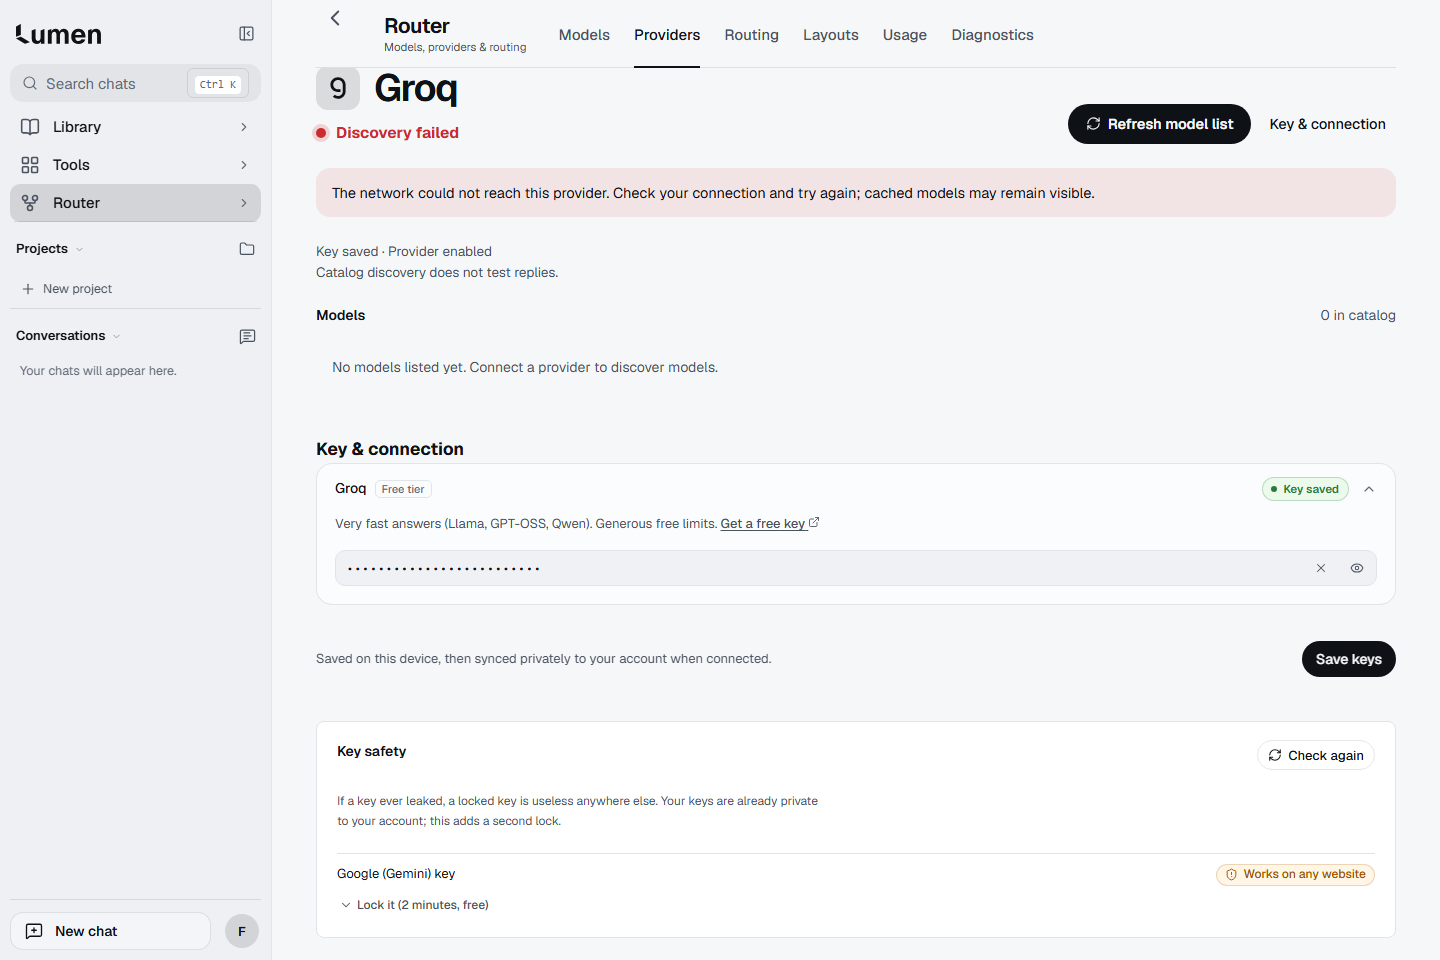
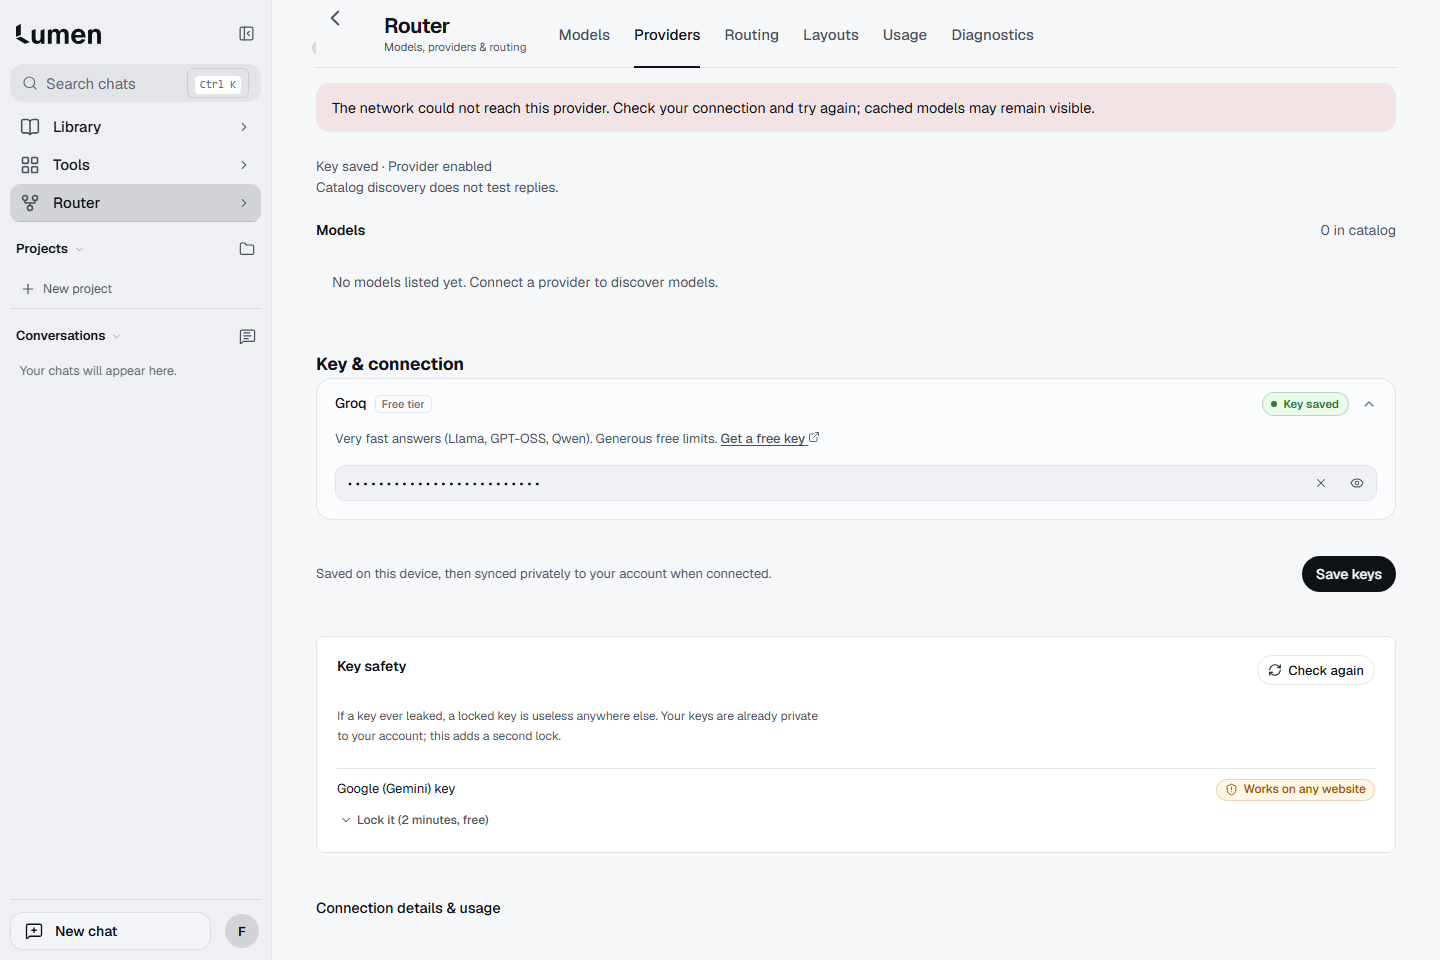
Router provider pages: Key safety only where it applies, in Lumen's words
Key safety checks Gemini and OpenRouter keys, so on Router's provider pages it
now appears only on those two, and shows Lumen's own copy instead of a
provider's raw error text (CI caught a 401 message rendering after the auth
failure). Settings keeps its existing Key safety. Also refreshes the review
captures (320/390/430/1440, Light and Dark) and the design note.

diff --git a/src/components/KeySafety.tsx b/src/components/KeySafety.tsx
@@ -28,8 +28,9 @@ function Steps({ title, children, open: startOpen }: { title: string; children: 
   );
 }
 
-/** Checks that the user's own AI keys can't be misused if they ever leak. */
-export default function KeySafety() {
+/** Checks that the user's own AI keys can't be misused if they ever leak. `safeCopy` (Router's provider pages) shows
+ * Lumen's own words instead of a provider's raw error text. */
+export default function KeySafety({ safeCopy = false }: { safeCopy?: boolean } = {}) {
   const keys = useStore((s) => s.keys);
   const [gemini, setGemini] = useState<Gemini>(null);
   const [openrouter, setOpenrouter] = useState<OpenRouter>(null);
@@ -102,8 +103,8 @@ export default function KeySafety() {
               <li>Save, wait about 5 minutes, then press <b>Check again</b>.</li>
             </Steps>
           )}
-          {gemini?.state === 'invalid' && <span className="setting-hint warn">Google says this key isn't valid: {gemini.message}</span>}
-          {gemini?.state === 'error' && gemini.message && <span className="setting-hint">{gemini.message}</span>}
+          {gemini?.state === 'invalid' && <span className="setting-hint warn">{safeCopy ? "Google says this key isn’t valid. Check it in Google AI Studio, then save it again." : <>Google says this key isn't valid: {gemini.message}</>}</span>}
+          {gemini?.state === 'error' && gemini.message && <span className="setting-hint">{safeCopy ? "Couldn’t check this key right now. Try Check again later." : gemini.message}</span>}
         </div>
       )}
 
@@ -139,7 +140,7 @@ export default function KeySafety() {
               <li>Come back and press <b>Check again</b>.</li>
             </Steps>
           )}
-          {openrouter?.state === 'error' && openrouter.message && <span className="setting-hint">{openrouter.message}</span>}
+          {openrouter?.state === 'error' && openrouter.message && <span className="setting-hint">{safeCopy ? "Couldn’t check this key right now. Try Check again later." : openrouter.message}</span>}
         </div>
       )}
     </div>

diff --git a/src/components/KeysPanel.tsx b/src/components/KeysPanel.tsx
@@ -84,7 +84,8 @@ export default function KeysPanel({ provider }: { provider?: string } = {}) {
         </button>
       </div>
 
-      <KeySafety />
+      {/* Key safety checks Gemini and OpenRouter keys; on a provider page it appears only for those two. */}
+      {(!provider || provider === 'gemini' || provider === 'openrouter') && <KeySafety safeCopy={Boolean(provider)} />}
     </div>
   );
 }

diff --git a/docs/reviews/switchboard-checkpoint/README.md b/docs/reviews/switchboard-checkpoint/README.md
@@ -1,30 +1,48 @@
-# Router (formerly Prism): first visual checkpoint
+# Router (formerly Prism) and the slimmer Settings
 
-**Checkpoint only; not a PR, merge or deployment.** Running Canvas app, synthetic profile (Gemini key listing one model, Groq key saved with discovery blocked, nothing else), all non-local traffic blocked, no inference, $0.
+**Draft for owner review ([PR #63](https://github.com/Seifonyx/Lumen/pull/63)). Not merged or deployed.** Captures come from the running Canvas app with a synthetic profile (Gemini key listing one model, a Groq key whose catalog request is blocked, nothing else), with every non-local request blocked: no inference, $0.
 
 ## Name
 
-**Router** (owner's choice, 2026-10-29, from a shortlist after Switchboard was declined), with the descriptor "Models, providers & routing" and the existing routing icon. It says exactly what the area does: send each request to the right model and provider, fall back when one is busy, and show what happened. "Prism" described light rather than the work, and a marketed AI gateway already uses that name. "Router" is a generic word, so this is an in-app area name, not a cleared brand. Internal ids (`routing-center`, `prism` context values, `rc-` classes) are unchanged.
+**Router** is the owner's choice (2026-10-29), picked from a shortlist after Switchboard was declined. It keeps the descriptor "Models, providers & routing" and the existing routing icon. "Router" is a generic word, so it is an in-app area name, not a cleared brand. Internal ids (`routing-center`, `prism` context values, `rc-` classes, `prism-*` test files) are unchanged.
 
-## Planned structure (to build after approval)
+## What Router holds (Canvas build)
 
-| Section | Holds | Comes from |
+| Section | Holds | Came from |
 |---|---|---|
-| Providers | Grid of every provider, status, connect and edit keys in place | Prism Providers + Settings → API keys (AI providers) |
-| Models | Saved models, browse, availability, Auto exclusions | Prism Models + Settings → Models (saved/browse/removed) |
-| Routing | Priority (balanced/quality/speed/cost), automatic switching, fallback order, preferred provider | Settings → Models |
-| Layouts | Layouts | Prism Layouts + Settings → Models → Layouts |
-| Usage | Recorded requests, limits, history | Prism Usage + Settings → Usage |
-| Diagnostics | Latest outcome, request log, routing evidence | Prism Diagnostics |
+| Models | Current routing mode, catalog, Use model | Prism Models |
+| Providers | Grouped grid (Connected · Free to start · Uses your provider credits) with provider marks and one status line; each provider's page holds its **key and connection** | Prism Providers + Settings → API keys |
+| Routing (new) | Switch models automatically, Auto for new chats, priority, preferred provider, **fallback order**, model health, custom models | Settings → Models |
+| Layouts | Layouts | Prism Layouts (Settings → Models → Layouts) |
+| Usage | Recorded requests, limits, saved-chat history | Prism Usage + Settings → Usage |
+| Diagnostics | Latest outcome, request log | Prism Diagnostics |
 
-Settings keeps account, appearance, chat, connectors (GitHub), personalization, memory, scheduled tasks and privacy, with one row that opens Router. Existing settings deep links (`keys`, `models`, `layouts`, `usage`) will redirect into the matching Router section so nothing becomes unreachable. Storage, key handling, routing logic and confirmations stay the same.
+- **First run:** a new account with no provider key opens Router on Google AI Studio, with the existing welcome guide above its key field. "All providers" always reaches the grid.
+- **Links into old Settings sections** (Tools "Set up", the model picker, model check, first run, the command palette) open the matching Router place in one history step. A request that reached Settings first (a first sign-in) hands off and replaces that history entry, so Back never loops.
+- **Keys on a provider page:** unsaved edits survive Back/Forward for that account (in memory only). Saving writes only that provider's own fields (key, permission, and the endpoint, account ID or relay it uses), so a stale page can never overwrite another provider's key.
+- **Provider marks:** monochrome, in Lumen's ink, quieter when not connected. Vendored from `@lobehub/icons-static-svg` 1.101.0 (MIT) and `simple-icons` 16.36.0 (CC0) for Scaleway and OVH, loaded in their own chunk with no runtime fetch. Licences are in [THIRD_PARTY_NOTICES.md](../../../THIRD_PARTY_NOTICES.md).
 
-## In this checkpoint
+## Settings (Canvas)
 
-- The name in the sidebar, rail, command palette, page header and accessible labels.
-- Providers as one grouped grid (Connected · Free to start · Uses your provider credits) with neutral monograms, one-line status and a "Refresh model lists" action (the existing catalog refresh; it sends no message). A tile opens the provider as its own page with "All providers" and browser Back.
-- Phones get the same groups as a single grouped list.
+The phone index puts the account first, then Connections (one **Router** row, plus Connectors), Personal (Personalization, Memory, Scheduled tasks) and Privacy & data. Each row states one true fact. API keys, Models (with Layouts) and Usage are gone from Settings. The ordinary build keeps today's Settings unchanged.
 
-Groups come from the provider registry: the four built-in free tiers plus providers flagged `free`.
+## Captures
 
-Fixture: [`tests/e2e/switchboard-experience.cjs`](../../../tests/e2e/switchboard-experience.cjs). axe WCAG A/AA, overflow, 44px phone targets, tile → detail → Back pass in Chromium and WebKit at 390 Light, 1440 Dark and 1440 Light.
+- `after/`: 320, 390, 430 and 1440, Light and Dark. Covers the landing, providers (and the full list), a provider page, adding a key, and Routing.
+- `before/`: main `532dbcf` at 390 Light, 1440 Dark and 1440 Light.
+- Settings index: [`../settings-checkpoint/`](../settings-checkpoint/).
+
+## Verification (agent-reported)
+
+- **Fixtures** [`switchboard-experience`](../../../tests/e2e/switchboard-experience.cjs) and [`settings-experience`](../../../tests/e2e/settings-experience.cjs) run in Chromium and WebKit. They check axe WCAG A/AA, overflow, 44px phone targets, tile → page → Back, a synthetic key moving a provider to Connected, Routing, Tools Set up → Router → one Back, and Exit keeping the draft.
+- **Router suites in Chromium and WebKit:** routing-providers, prism-provider-states, provider-settings-containment (including 150% text at 320px), prism-model-states, prism-auto-layouts, iphone-glass-navigation, feature-exit. In Chromium only: prism-model-discovery, prism-routing-states, prism-usage-diagnostics.
+- **Contracts in Chromium:** CP03, CP04 and CP05, plus the browser and composer contracts.
+- **Kept Canvas in-app suites:** run locally with the emulators.
+- **Also passing:** unit tests, QA01 (8 checks), CP01 (26 negative controls).
+- **Budget:** startup JS +12.5 KB, startup CSS +14.9 KB, Router chunk 7.9 KB, CSS source 21.6 of 22 KB.
+
+## Known limits
+
+- **Canvas coverage moved to the ordinary build:** 21 in-app suites that drive Settings → API keys, Models, Usage or Layouts directly no longer run on the Canvas build; they are listed in `tests/e2e/canvas-core.txt`. They still run in full on the ordinary build, and Router's suites cover the same shared editors on Canvas. Porting them to drive Router is follow-up work.
+- **Physical devices:** iPhone, VoiceOver and Dynamic Type are unverified.
+- **Desktop Settings:** desktop Canvas Settings keeps its side list, without the sections that moved.
